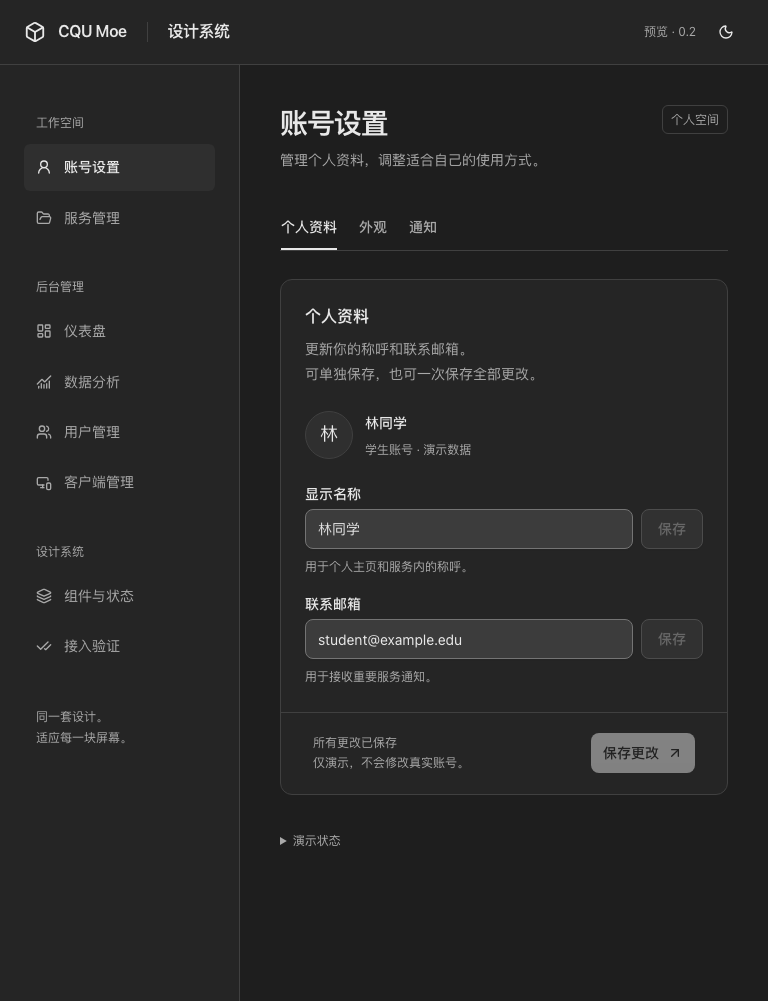
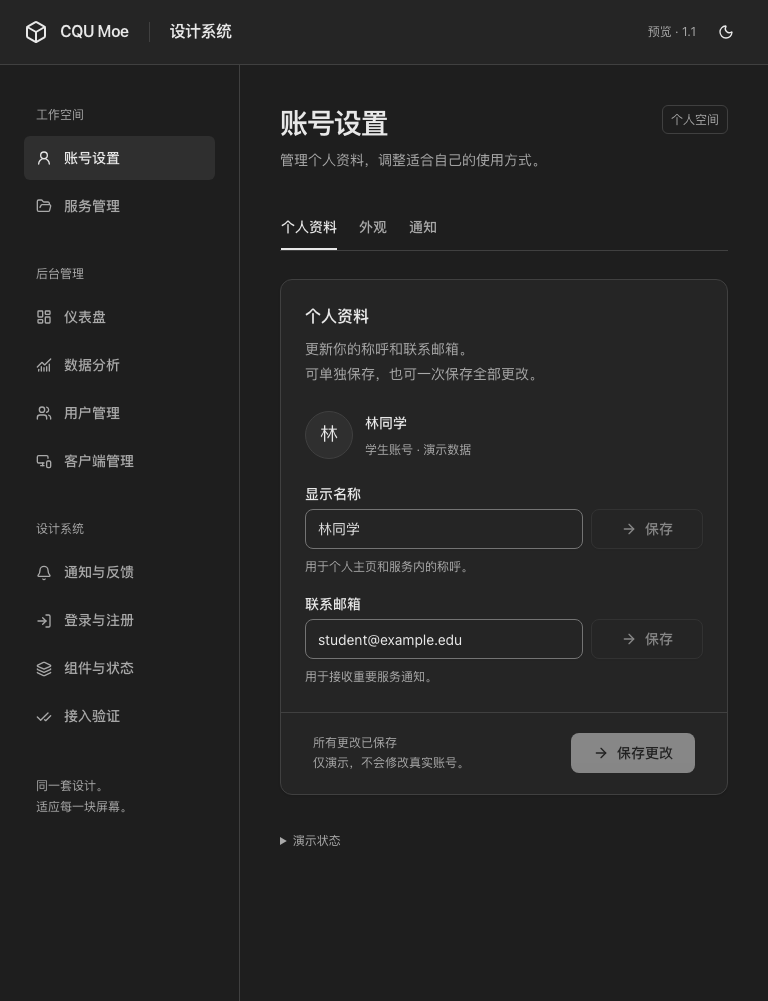
feat(design): refine neutral hierarchy and deploy preview

diff --git a/packages/theme/src/tokens.css b/packages/theme/src/tokens.css
@@ -35,10 +35,10 @@
   --surface: oklch(1 0 0);
   --muted: oklch(0.958 0 0);
   --muted-foreground: oklch(0.46 0 0);
-  --border: oklch(0.895 0 0);
+  --border: oklch(0 0 0 / 0.1);
   --input: oklch(0.6 0 0);
   --ring: oklch(0.5 0 0);
-  --primary: oklch(0.25 0 0);
+  --primary: oklch(0.22 0 0);
   --primary-foreground: oklch(0.99 0 0);
   --destructive: oklch(0.49 0.18 25);
   --destructive-foreground: oklch(1 0 0);
@@ -47,6 +47,7 @@
   --link: oklch(0.46 0.16 255);
   --overlay: oklch(0.15 0 0 / 0.35);
   --shadow-popover: 0 8px 30px oklch(0.2 0 0 / 0.12);
+  --shadow-card: 0 1px 2px oklch(0 0 0 / 0.04), 0 2px 4px oklch(0 0 0 / 0.02);
   --card: var(--surface);
   --card-foreground: var(--foreground);
   --popover: var(--surface);
@@ -66,7 +67,7 @@
   --border: oklch(0.37 0 0);
   --input: oklch(0.56 0 0);
   --ring: oklch(0.7 0 0);
-  --primary: oklch(0.9 0 0);
+  --primary: oklch(0.93 0 0);
   --primary-foreground: oklch(0.235 0 0);
   --destructive: oklch(0.74 0.14 25);
   --destructive-foreground: oklch(0.2 0 0);
@@ -75,6 +76,7 @@
   --link: oklch(0.78 0.1 255);
   --overlay: oklch(0.12 0 0 / 0.6);
   --shadow-popover: 0 8px 30px oklch(0.1 0 0 / 0.35);
+  --shadow-card: 0 1px 2px oklch(0 0 0 / 0.12);
 }
 @media (prefers-color-scheme: dark) {
   :root:not([data-theme]) {
@@ -86,7 +88,7 @@
     --border: oklch(0.37 0 0);
     --input: oklch(0.56 0 0);
     --ring: oklch(0.7 0 0);
-    --primary: oklch(0.9 0 0);
+    --primary: oklch(0.93 0 0);
     --primary-foreground: oklch(0.235 0 0);
     --destructive: oklch(0.74 0.14 25);
     --destructive-foreground: oklch(0.2 0 0);
@@ -95,6 +97,7 @@
     --link: oklch(0.78 0.1 255);
     --overlay: oklch(0.12 0 0 / 0.6);
     --shadow-popover: 0 8px 30px oklch(0.1 0 0 / 0.35);
+    --shadow-card: 0 1px 2px oklch(0 0 0 / 0.12);
   }
 }
 :root[data-theme='light'] {

diff --git a/packages/ui/src/components/ui/select.tsx b/packages/ui/src/components/ui/select.tsx
@@ -30,7 +30,7 @@ function SelectTrigger({
       data-slot="select-trigger"
       data-size={size}
       className={cn(
-        "flex w-fit items-center justify-between gap-2 rounded-md border border-input bg-transparent px-3 py-2 text-sm whitespace-nowrap shadow-xs transition-[color,box-shadow] outline-none focus-visible:border-ring focus-visible:ring-[3px] focus-visible:ring-ring/50 disabled:cursor-not-allowed disabled:opacity-50 aria-invalid:border-destructive aria-invalid:ring-destructive/20 data-[placeholder]:text-muted-foreground data-[size=default]:h-9 data-[size=sm]:h-8 *:data-[slot=select-value]:line-clamp-1 *:data-[slot=select-value]:flex *:data-[slot=select-value]:items-center *:data-[slot=select-value]:gap-2 dark:bg-input/30 dark:hover:bg-input/50 dark:aria-invalid:ring-destructive/40 [&_svg]:pointer-events-none [&_svg]:shrink-0 [&_svg:not([class*='size-'])]:size-4 [&_svg:not([class*='text-'])]:text-muted-foreground",
+        "flex w-fit items-center justify-between gap-2 rounded-md border border-input bg-card px-3 py-2 text-sm whitespace-nowrap shadow-xs transition-[color,box-shadow] outline-none focus-visible:border-ring focus-visible:ring-[3px] focus-visible:ring-ring/50 disabled:cursor-not-allowed disabled:opacity-50 aria-invalid:border-destructive aria-invalid:ring-destructive/20 data-[placeholder]:text-muted-foreground data-[size=default]:h-9 data-[size=sm]:h-8 *:data-[slot=select-value]:line-clamp-1 *:data-[slot=select-value]:flex *:data-[slot=select-value]:items-center *:data-[slot=select-value]:gap-2 dark:aria-invalid:ring-destructive/40 [&_svg]:pointer-events-none [&_svg]:shrink-0 [&_svg:not([class*='size-'])]:size-4 [&_svg:not([class*='text-'])]:text-muted-foreground",
         className,
       )}
       {...props}

diff --git a/tests/accessibility.browser.spec.ts b/tests/accessibility.browser.spec.ts
@@ -26,3 +26,37 @@ test('touch theme menu options each provide 44px height', async ({ browser }) =>
   }
   await context.close();
 });
+
+for (const theme of ['light', 'dark']) {
+  test(`${theme} brand actions and selected navigation keep readable contrast`, async ({
+    page,
+  }) => {
+    await page.addInitScript((value) => localStorage.setItem('cqu-moe-theme', value), theme);
+    await page.goto('/components');
+    for (const name of ['主要操作', '次要操作']) {
+      const button = page.getByRole('button', { name, exact: true });
+      expect(await button.evaluate(elementContrast)).toBeGreaterThanOrEqual(4.5);
+      await button.hover();
+      await expect.poll(() => button.evaluate(elementContrast)).toBeGreaterThanOrEqual(4.5);
+    }
+    const current = page.locator('.ds-sidebar a[aria-current="page"]');
+    expect(await current.evaluate(elementContrast)).toBeGreaterThanOrEqual(4.5);
+  });
+}
+
+test('press feedback moves only for pointer input without reduced motion', async ({ page }) => {
+  await page.goto('/components');
+  const button = page.getByRole('button', { name: '主要操作', exact: true });
+  await button.focus();
+  await page.keyboard.down('Space');
+  expect(await button.evaluate((el) => getComputedStyle(el).transform)).toBe('none');
+  await page.keyboard.up('Space');
+  await button.hover();
+  await page.mouse.down();
+  await expect.poll(() => button.evaluate((el) => getComputedStyle(el).transform)).not.toBe('none');
+  await page.mouse.up();
+  await page.emulateMedia({ reducedMotion: 'reduce' });
+  await page.mouse.down();
+  await expect.poll(() => button.evaluate((el) => getComputedStyle(el).transform)).toBe('none');
+  await page.mouse.up();
+});

diff --git a/apps/preview/src/styles.css b/apps/preview/src/styles.css
@@ -598,15 +598,19 @@ code {
 .metric-grid {
   display: grid;
   grid-template-columns: repeat(4, minmax(0, 1fr));
-  gap: var(--space-4);
   margin-bottom: var(--space-6);
-}
-.metric-card {
   border: 1px solid var(--border);
   border-radius: var(--radius-lg);
   background: var(--surface);
+  box-shadow: var(--shadow-card);
+  overflow: hidden;
+}
+.metric-card {
   padding: var(--space-5);
   min-width: 0;
+}
+.metric-card + .metric-card {
+  border-left: 1px solid var(--border);
 }
 .metric-card > div {
   display: flex;
@@ -800,6 +804,12 @@ code {
   .metric-grid {
     grid-template-columns: repeat(2, minmax(0, 1fr));
   }
+  .metric-card:nth-child(odd) {
+    border-left: 0;
+  }
+  .metric-card:nth-child(n + 3) {
+    border-top: 1px solid var(--border);
+  }
   .dashboard-grid {
     grid-template-columns: 1fr;
   }
@@ -810,9 +820,6 @@ code {
   }
 }
 @media (max-width: 767px) {
-  .metric-grid {
-    gap: var(--space-3);
-  }
   .metric-card {
     padding: var(--space-4);
   }
@@ -1203,4 +1210,11 @@ code {
 .button-feedback-case label {
   min-height: 2.75rem;
   gap: var(--space-3);
+}
+
+/* Reference surfaces use the same depth and emphasis as consuming applications. */
+.settings-form,
+.auth-card,
+.admin-panel {
+  box-shadow: var(--shadow-card);
 }

diff --git a/packages/ui/src/components/ui/input.tsx b/packages/ui/src/components/ui/input.tsx
@@ -7,7 +7,7 @@ function Input({ className, type, ...props }: React.ComponentProps<'input'>) {
       type={type}
       data-slot="input"
       className={cn(
-        'h-9 w-full min-w-0 rounded-md border border-input bg-transparent px-3 py-1 text-base shadow-xs transition-[color,box-shadow] outline-none selection:bg-primary selection:text-primary-foreground file:inline-flex file:h-7 file:border-0 file:bg-transparent file:text-sm file:font-medium file:text-foreground placeholder:text-muted-foreground disabled:pointer-events-none disabled:cursor-not-allowed disabled:opacity-50 md:text-sm dark:bg-input/30',
+        'h-9 w-full min-w-0 rounded-md border border-input bg-card px-3 py-1 text-base shadow-xs transition-[color,box-shadow] outline-none selection:bg-primary selection:text-primary-foreground file:inline-flex file:h-7 file:border-0 file:bg-transparent file:text-sm file:font-medium file:text-foreground placeholder:text-muted-foreground disabled:pointer-events-none disabled:cursor-not-allowed disabled:opacity-50 md:text-sm',
         'focus-visible:border-ring focus-visible:ring-[3px] focus-visible:ring-ring/50',
         'aria-invalid:border-destructive aria-invalid:ring-destructive/20 dark:aria-invalid:ring-destructive/40',
         className,

diff --git a/packages/ui/src/components/ui/textarea.tsx b/packages/ui/src/components/ui/textarea.tsx
@@ -6,7 +6,7 @@ function Textarea({ className, ...props }: React.ComponentProps<'textarea'>) {
     <textarea
       data-slot="textarea"
       className={cn(
-        'flex field-sizing-content min-h-16 w-full rounded-md border border-input bg-transparent px-3 py-2 text-base shadow-xs transition-[color,box-shadow] outline-none placeholder:text-muted-foreground focus-visible:border-ring focus-visible:ring-[3px] focus-visible:ring-ring/50 disabled:cursor-not-allowed disabled:opacity-50 aria-invalid:border-destructive aria-invalid:ring-destructive/20 md:text-sm dark:bg-input/30 dark:aria-invalid:ring-destructive/40',
+        'flex field-sizing-content min-h-16 w-full rounded-md border border-input bg-card px-3 py-2 text-base shadow-xs transition-[color,box-shadow] outline-none placeholder:text-muted-foreground focus-visible:border-ring focus-visible:ring-[3px] focus-visible:ring-ring/50 disabled:cursor-not-allowed disabled:opacity-50 aria-invalid:border-destructive aria-invalid:ring-destructive/20 md:text-sm dark:aria-invalid:ring-destructive/40',
         className,
       )}
       {...props}

diff --git a/packages/ui/src/styles.css b/packages/ui/src/styles.css
@@ -41,11 +41,11 @@
     transition:
       background-color var(--duration-feedback) ease,
       color var(--duration-feedback) ease,
-      transform var(--duration-feedback) ease;
+      transform var(--duration-feedback) var(--ease-out);
     cursor: pointer;
   }
-  .ds-button:active:not(:disabled) {
-    transform: scale(0.98);
+  :root:not([data-input='keyboard']) .ds-button:active:not(:disabled):not([aria-disabled='true']) {
+    transform: scale(0.97);
   }
   .ds-button:disabled {
     opacity: 1;
@@ -124,7 +124,7 @@
   transition: none !important;
 }
 @media (prefers-reduced-motion: reduce) {
-  .ds-button:active:not(:disabled) {
+  :root:not([data-input='keyboard']) .ds-button:active:not(:disabled):not([aria-disabled='true']) {
     transform: none;
   }
 }
@@ -343,4 +343,12 @@
   .ds-toast-spinner {
     animation: none !important;
   }
+}
+
+:root[data-motion-preview='reduce'] .ds-button:active:not(:disabled) {
+  transform: none;
+}
+[data-slot='switch-thumb'] {
+  transition-duration: 180ms;
+  transition-timing-function: var(--ease-out);
 }

diff --git a/packages/ui/src/layout.css b/packages/ui/src/layout.css
@@ -38,8 +38,8 @@
 }
 .ds-sidebar {
   border-right: 1px solid var(--border);
-  padding: var(--space-8) var(--space-4);
-  background: var(--surface);
+  padding: var(--space-6) var(--space-4);
+  background: var(--background);
 }
 .ds-navigation {
   display: flex;
@@ -51,10 +51,11 @@
   display: flex;
   align-items: center;
   gap: var(--space-3);
-  padding: var(--space-3);
+  padding: var(--space-2) var(--space-3);
   min-height: 2.75rem;
   border-radius: var(--radius-sm);
   font-size: var(--text-sm);
+  font-weight: 500;
   color: var(--muted-foreground);
   text-decoration: none;
   overflow-wrap: anywhere;
@@ -62,7 +63,6 @@
 .ds-navigation a[aria-current='page'] {
   background: var(--muted);
   color: var(--foreground);
-  font-weight: 500;
 }
 .ds-navigation svg {
   width: 1rem;
@@ -145,7 +145,7 @@
   outline-offset: 3px;
 }
 @media (hover: hover) and (pointer: fine) {
-  .ds-navigation a:hover {
+  .ds-navigation a:not([aria-current='page']):hover {
     background: var(--muted);
     color: var(--foreground);
   }

diff --git a/packages/ui/src/components/ui/button.tsx b/packages/ui/src/components/ui/button.tsx
@@ -12,7 +12,7 @@ const buttonVariants = cva(
         destructive:
           'bg-destructive text-destructive-foreground hover:bg-destructive/90 focus-visible:ring-destructive/20 dark:focus-visible:ring-destructive/40',
         outline:
-          'border bg-background shadow-xs hover:bg-accent hover:text-accent-foreground dark:border-input dark:bg-input/30 dark:hover:bg-input/50',
+          'border bg-card text-card-foreground shadow-xs hover:bg-accent hover:text-accent-foreground',
         secondary: 'bg-secondary text-secondary-foreground hover:bg-secondary/80',
         ghost: 'hover:bg-accent hover:text-accent-foreground dark:hover:bg-accent/50',
         link: 'text-primary underline-offset-4 hover:underline',

diff --git a/apps/preview/src/app.tsx b/apps/preview/src/app.tsx
@@ -27,7 +27,7 @@ export function App() {
       }
       utilities={
         <>
-          <span className="preview-label">预览 · 1.0</span>
+          <span className="preview-label">预览 · 1.1</span>
           <ThemeMenu />
         </>
       }

diff --git a/docs/agent-prompts.md b/docs/agent-prompts.md
@@ -11,6 +11,10 @@
 使用 @cqu-moe/ui 的公开组件、@cqu-moe/theme、lucide-react。按最近示例组合，双主题与桌面/手机功能齐全。
 业务接口合同：[文档或路径]；允许访问的环境：[环境]；禁止的外部操作：[边界]。
 假数据只用于开发并明确标注，不把示例定时器当接口。不要复制基础组件、覆盖 .ds-* 或新增图标库。
+视觉执行：先读 https://vercel.com/design.md 的排版、分组、边界与动效章节，将原则用于现有产品结构。先确定页面主要任务，统一同类元素的基线和间距，删除重复说明和装饰图标；不要仅替换控件或增加一种主题色。参考 Vercel 仪表盘的中性层次。background 做浅灰画布，surface/card 做白色内容面，border 与 shadow-card 提供轻边界和贴地投影。并列区块优先标题在卡片外，内容用分隔行组织。主要按钮用紧凑黑白反色，次要按钮用描边；不要给大卡片铺深灰。
+禁止用整页品牌色、绿色光晕、渐变、彩色标题竖条或卡片顶边装饰。颜色只用于链接与真实语义状态。先建立主次、间距和对齐，再检查视觉细节。
+动效执行：复用共享按钮按压、开关、菜单和弹窗反馈；不用全页/列表逐项入场，不新增动效依赖。键盘操作即时，减少动态效果取消位移和缩放。
+视觉验收：实际查看 390/768/1440 宽度的双主题截图、320 内容重排；检查主次、表面层次、长中文、hover/pressed/focus/disabled。不能用“构建通过”代替“看过并调整”。
 执行 docs/acceptance.md，交付运行入口、包版本、实际验证结果和人工待验项。
 发现设计组件/模板/示例缺陷或缺口按 docs/feedback-contract.md 提醒我。当前不授权发 issue；有需要时先提供完整反馈记录。
 ```
@@ -23,6 +27,10 @@
 在隔离分支/worktree 完成。先迁移 [指定页面/范围] 的外壳、控件和完整状态，保留原业务/权限/URL合同；不要顺手更换后端或认证方案。
 安装同版 theme/ui 和模板锁定的 lucide-react，避免重复主题、通知容器及CSS reset。
 真实数据使用现有数据层，替换所有演示内存/定时器；支持加载、空数据、错误、403和失败重试。
+视觉执行：先读 https://vercel.com/design.md 的排版、分组、边界与动效章节，将原则用于现有产品结构。先确定页面主要任务，统一同类元素的基线和间距，删除重复说明和装饰图标；不要仅替换控件或增加一种主题色。参考 Vercel 仪表盘的中性层次。background 做浅灰画布，surface/card 做白色内容面，border 与 shadow-card 提供轻边界和贴地投影。并列区块优先标题在卡片外，内容用分隔行组织。主要按钮用紧凑黑白反色，次要按钮用描边；不要给大卡片铺深灰。
+禁止用整页品牌色、绿色光晕、渐变、彩色标题竖条或卡片顶边装饰。颜色只用于链接与真实语义状态。先建立主次、间距和对齐，再检查视觉细节。
+动效执行：复用共享按钮按压、开关、菜单和弹窗反馈；不用全页/列表逐项入场，不新增动效依赖。键盘操作即时，减少动态效果取消位移和缩放。
+视觉验收：实际查看 390/768/1440 宽度的双主题截图、320 内容重排；检查主次、表面层次、长中文、hover/pressed/focus/disabled。不能用“构建通过”代替“看过并调整”。
 按 docs/acceptance.md 验证并报告迁移范围、行为变化、回滚点和待人工验收项。
 设计系统问题先反馈，不复制修改共享控件。issue 授权与仓库：[未授权，或具体授权范围和仓库]。
 ```

diff --git a/docs/visual-polish.md b/docs/visual-polish.md
@@ -1,0 +1,38 @@
+# 1.1 视觉调整
+
+以用户提供的 Vercel 仪表盘截图为视觉方向：中性画布、白色内容卡片、细边界、贴近表面的轻投影，依靠标题、间距与对齐形成层次。
+
+## 最终配色与表面
+
+- 所有页面背景恢复中性白色／石墨灰；无品牌色大背景、绿色光晕或渐变。
+- 浅色 primary 从 oklch(.25 0 0) 改为 oklch(.22 0 0)，深色从 oklch(.9 0 0) 改为 oklch(.93 0 0)，用于紧凑主按钮。
+- 浅色 border 从 oklch(.895 0 0) 改为 oklch(0 0 0 / .1)，以透明细边界区分白色内容面。
+- 新增 shadow-card：浅色为 0 1px 2px black/4% + 0 2px 4px black/2%，深色为 0 1px 2px black/12%；边界仍由 border 承担。
+- 输入与次要按钮使用 card，移除深色模式中的 input/30 灰色整块填充。保留中性焦点与可见输入边界。
+- Auth 设置标题放到内容卡片外，表单展开使用中性底色。取消彩色标题线、卡片顶边与选中导航侧边条。
+
+## 动效
+
+按钮指针按压 150ms、scale(.97)；键盘即时。开关滑块 180ms，从当前位置继续。Auth 行内编辑器仅在指针展开时做 4px、180ms 的进入反馈；不支持 starting-style 的浏览器直接显示。减少动态效果取消位移与缩放。
+
+模板和接入提示词明确上述视觉规则，要求实际查看双主题、桌面与手机截图。
+
+## Vercel 原文对应
+
+来源：[vercel.com/design.md](https://vercel.com/design.md)，2026-09-29 阅读。该文件面向报告网站；本次取其排版、分组与克制原则，应用到现有产品组件，不替换 CQU 身份、路由和主题能力。
+
+- 先明确当前页的主要任务，再安排层次。Auth 账户页只保留一处用途说明，去掉重复描述与额外装饰指纹。
+- 同组内容共享对齐、数字位置和间距。仪表盘四个同类指标合成一组，内部用分隔线，避免四张相同卡片争抢注意力。
+- 先用字号、字重与分组间距组织内容，再决定边界；设置页区块标题在内容面外，普通卡片不反色。
+- 大面积保持中性；链接和真实状态才使用颜色。保留一个明确主动作，不用色条、渐变或图标底块替代层次。
+- 动效仅反馈操作与状态，基础内容始终可读；键盘与减少动态效果保持即时。
+
+验收同时看第一屏和整页、明暗主题与窄屏：遮住具体文案后仍能辨认主次和分组；每个多余框、重复说明与装饰图标都应有保留理由。
+
+## 验证与部署
+
+- pnpm check、69 项浏览器测试、独立 consumer 安装验证通过。
+- 手工查看了桌面与手机截图，Auth 本地演示数据验证包含 320px 重排与减少动态效果；未验证真实手机。
+- 2026-09-29 部署到 https://cqu-moe-design.user-unauthorized.workers.dev，版本 c571c379-5896-4b24-85f2-04d813408767。
+- 线上 /admin 与本地 index.html 内容一致；实际浏览器确认仪表盘、背景和页面宽度正常。
+- theme/ui 为 1.1.0，本次发布的是静态预览站，未发布 npm registry 包。
